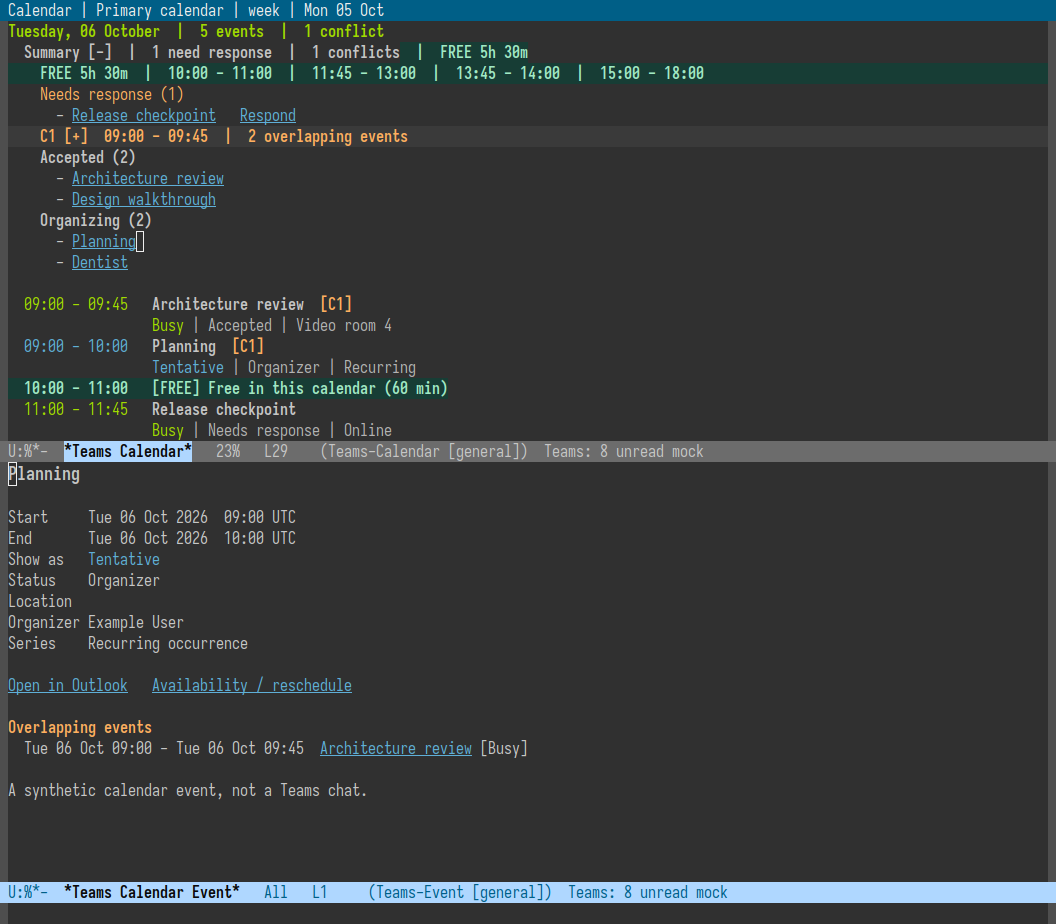
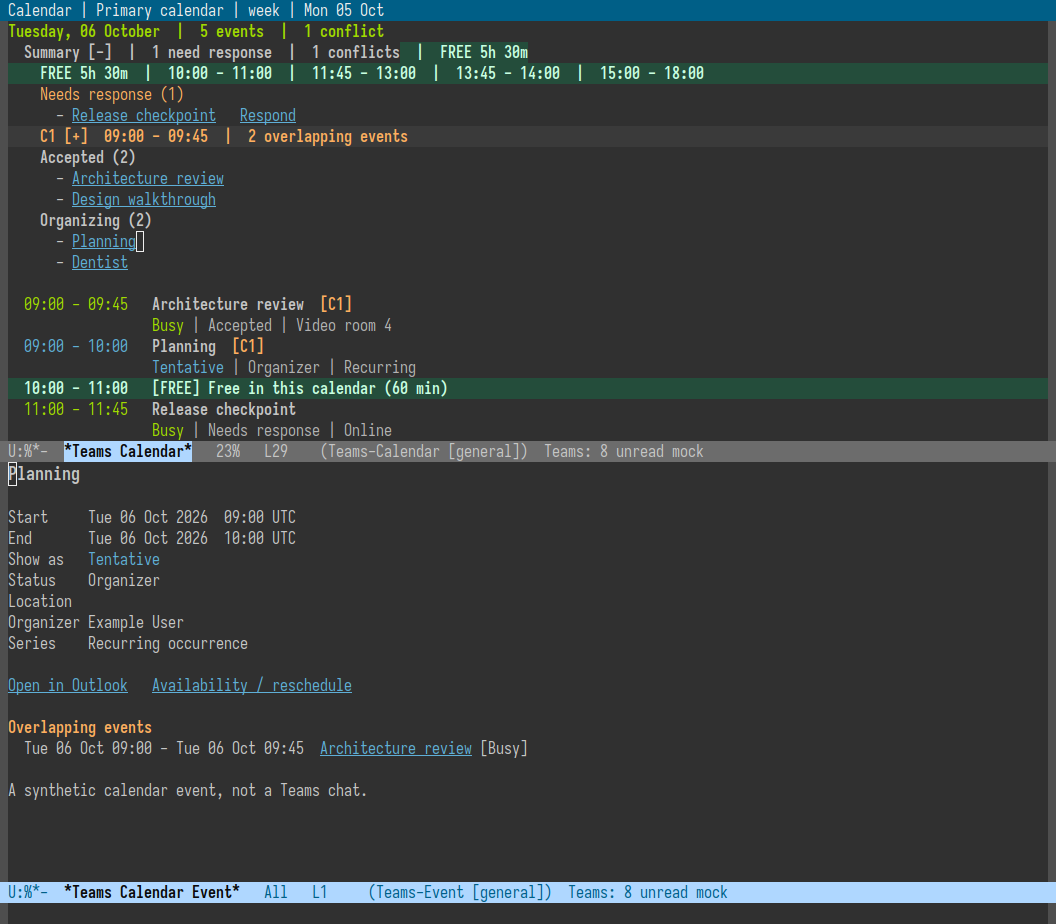
Show free-time bands and duration-scaled agenda in Moe captures

diff --git a/CALENDAR.md b/CALENDAR.md
@@ -76,6 +76,10 @@ Text can still wrap. This remains a chronological agenda, **not a spatial time
 grid**: overlapping meetings are separate blocks, not extra elapsed time.
 Toggling does not fetch data or change your selected event.
 
+[Duration-scaled agenda in real Emacs with Moe](assets/calendar-duration.png)
+shows the same synthetic calendar with its summary folded and longer free
+intervals taking more space. The compact agenda screenshots use the default.
+
 Free gaps describe **this calendar only**, not all your calendars. Busy,
 tentative, out-of-office, and unknown availability block time; free,
 working-elsewhere, declined, and cancelled events do not. Overlapping blocks
